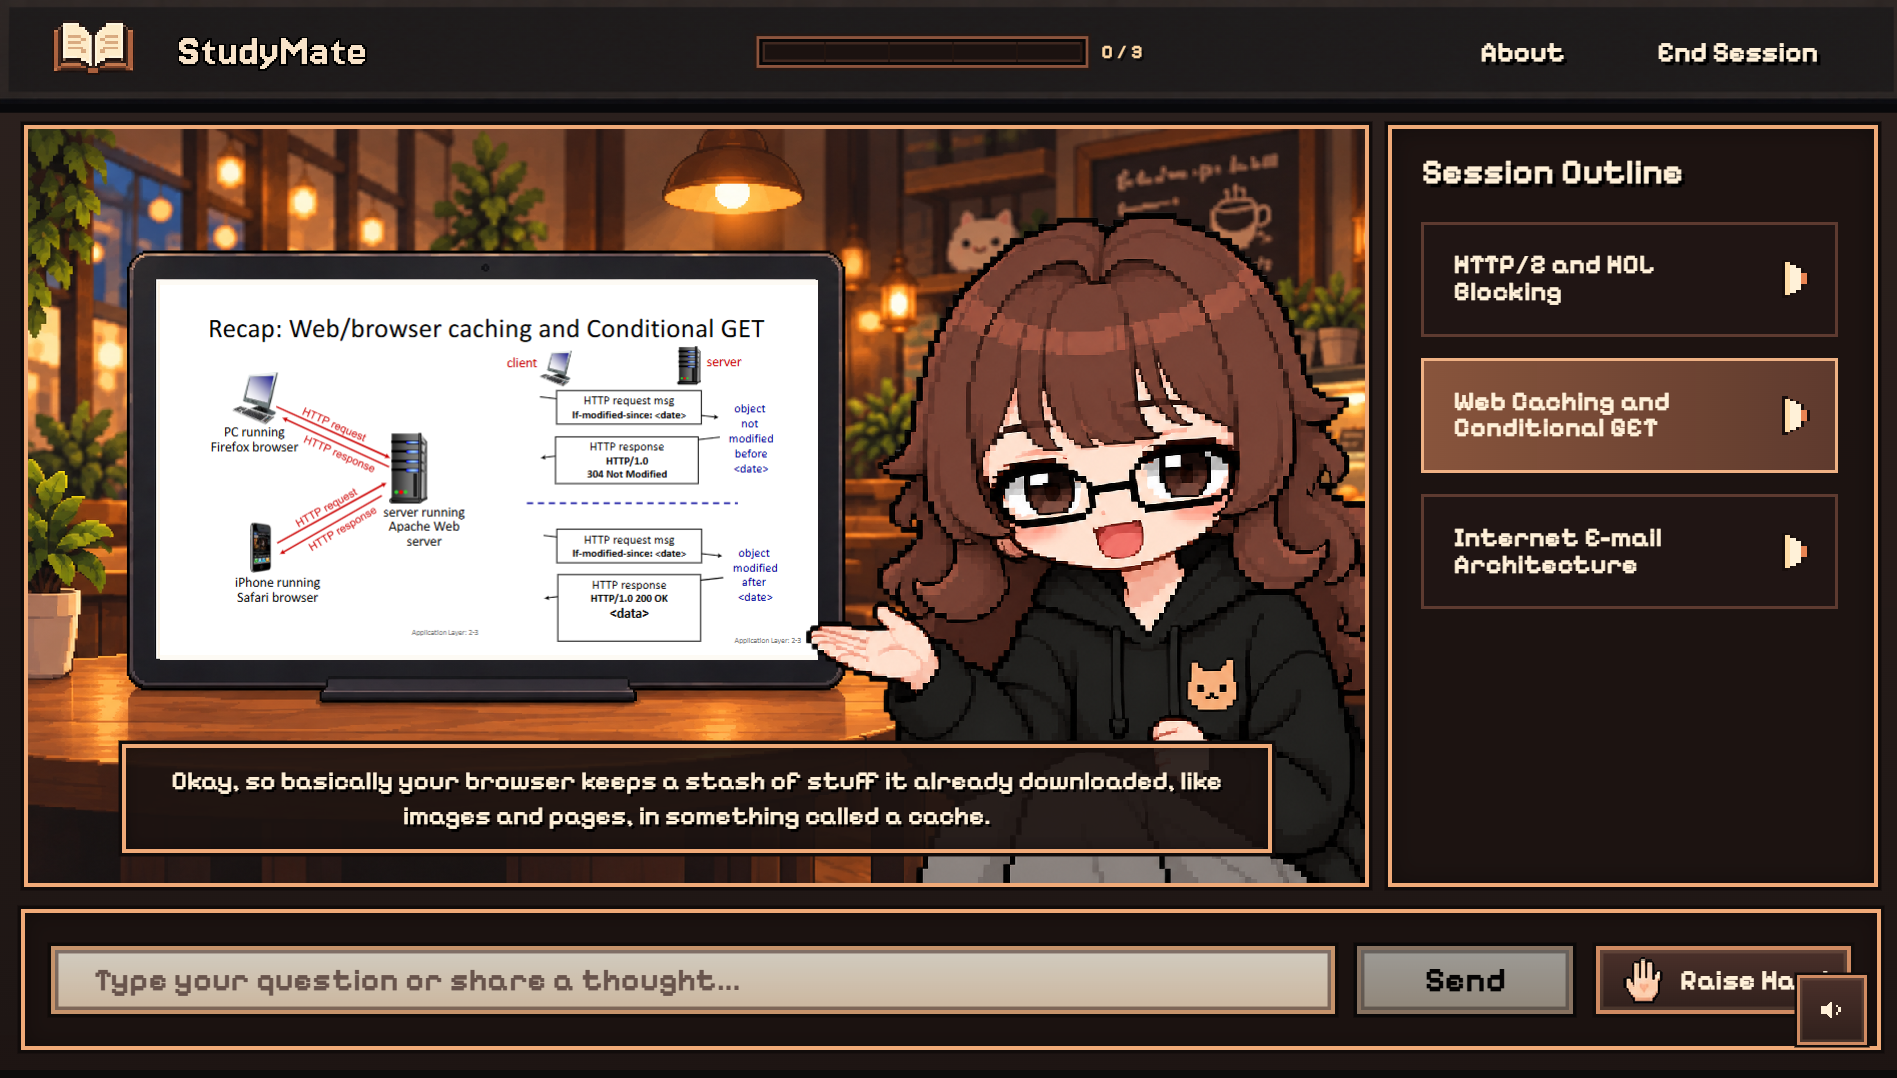
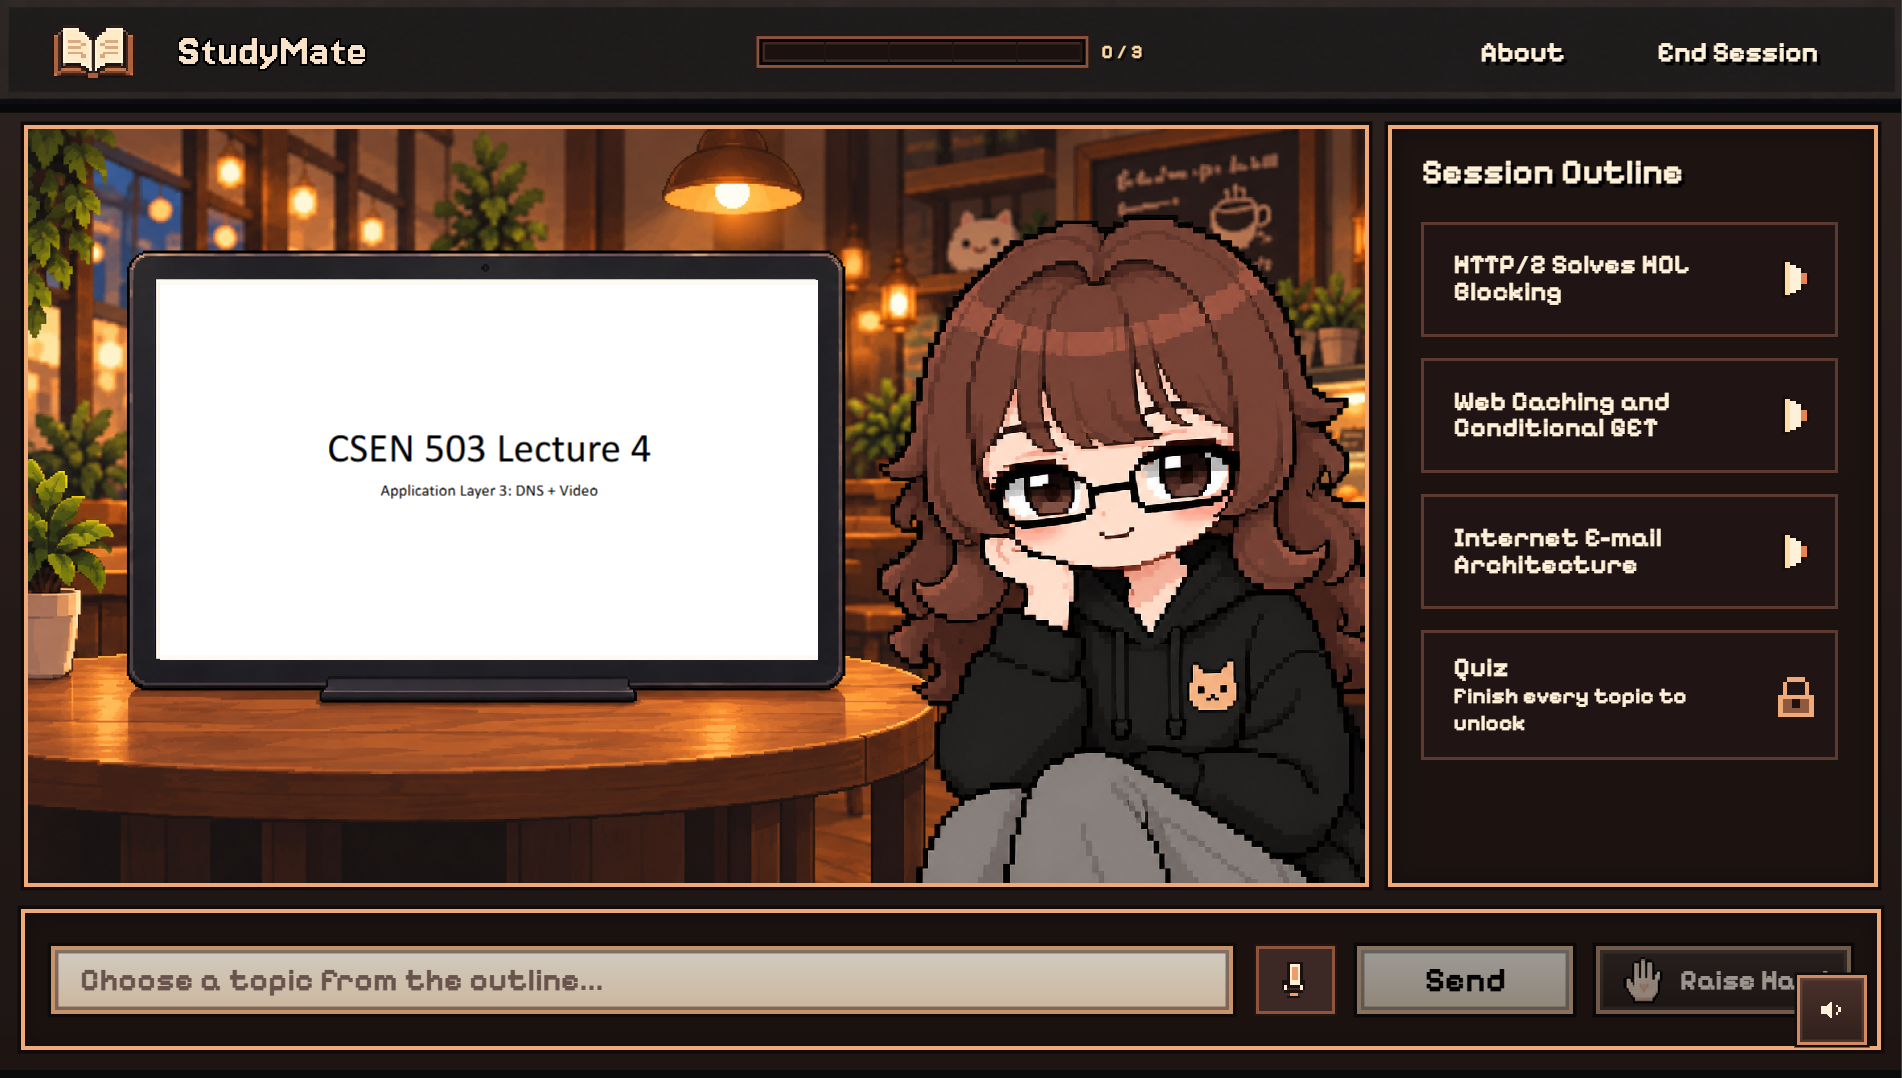
Update README.md to include voice input options and Groq Whisper integration; add new screenshots for Cafe and Lecture Hall pages.

diff --git a/README.md b/README.md
@@ -13,7 +13,7 @@ Lecture slides often contain diagrams, formulas, and brief bullet points that ma
 1. **Upload a PDF.** StudyMate reads slide text and interprets meaningful diagrams and visual content.
 2. **Follow a lesson plan.** AI reorganizes the lecture into a logical, slide-grounded topic outline.
 3. **Choose your teacher.** Study in a **Lecture Hall**, with a **Private Tutor**, or at a **Study Café**, three expressive on-screen characters with different teaching styles.
-4. **Learn actively.** Hear explanations with synchronized slides and subtitles. Answer conceptual questions, receive feedback and hints, and retry when needed.
+4. **Learn actively.** Hear explanations with synchronized slides and subtitles. Answer conceptual questions by typing or recording your voice, receive feedback and hints, and retry when needed.
 5. **Stay in control.** Raise your hand to interrupt, ask a question, and resume where you left off; replay topics with fresh explanations.
 6. **Practice what matters.** A final adaptive quiz revisits weak concepts identified from your answers during the session.
 
@@ -50,7 +50,9 @@ Lecture slides often contain diagrams, formulas, and brief bullet points that ma
 
 ## How It Works
 
-StudyMate uses **PyMuPDF** and **Featherless AI** to interpret slide text and visuals, then generates a slide-grounded lesson plan. **LangGraph** orchestrates the session: teaching, questioning, evaluating answers, handling interruptions, and tracking weak areas. **React**, **PDF.js**, and **Fish Audio** bring that workflow into an interactive classroom.
+StudyMate uses **PyMuPDF** and **Featherless AI** to interpret slide text and visuals, then generates a slide-grounded lesson plan. **LangGraph** orchestrates the session: teaching, questioning, evaluating answers, handling interruptions, and tracking weak areas. **React**, **PDF.js**, **Fish Audio**, and **Groq Whisper** bring that workflow into an interactive classroom.
+
+Students can also record an answer or question. **Groq Whisper** transcribes it with lecture context, then places the editable transcript in the normal text field before the student sends it. If voice input is unavailable, typing remains available.
 
 ### Agent Workflow
 
@@ -62,11 +64,11 @@ StudyMate uses **PyMuPDF** and **Featherless AI** to interpret slide text and vi
 
 **The AI is more than a wrapper:** Featherless AI processes visual slides and generates teaching content; Pydantic checks structured outputs; and LangGraph maintains the state of each lesson—topic, slide, spoken segment, questions, progress, and weak areas—so student interruptions don't derail the experience.
 
-**Tech stack:** React, JavaScript, HTML, CSS, Vite, PDF.js · Python, FastAPI, LangGraph, Pydantic, PyMuPDF, HTTPX · Featherless AI · Fish Audio.
+**Tech stack:** React, JavaScript, HTML, CSS, Vite, PDF.js · Python, FastAPI, LangGraph, Pydantic, PyMuPDF, HTTPX · Featherless AI · Fish Audio · Groq Whisper.
 
 ## Run Locally
 
-**Requirements:** Python, Node.js/npm, a Featherless AI API key, and a Fish Audio API key.
+**Requirements:** Python, Node.js/npm, a Featherless AI API key, and a Fish Audio API key. A Groq API key is optional but required for voice answers.
 
 ### 1. Clone
 
@@ -93,11 +95,12 @@ Then:
 pip install -r requirements.txt
 ```
 
-Create `backend/.env` with **only these two required keys**:
+Create `backend/.env` with the required teaching and speech keys, plus the optional voice-transcription key:
 
 ```env
 FEATHERLESS_API_KEY=your_featherless_api_key
 FISH_AUDIO_API_KEY=your_fish_audio_api_key
+GROQ_STT_API_KEY=your_groq_api_key
 ```
 
 Start the backend (from `backend/`):
@@ -120,7 +123,7 @@ Open the local URL Vite prints (usually `http://localhost:5173`). The frontend c
 
 ### API Availability
 
-The project requires working Featherless AI and Fish Audio keys. Fish Audio's current `s2.1-pro-free` model is advertised as free **through November 30, 2026**; after that, access or the integration may need updating. See [Fish Audio's announcement](https://beta.fish.audio/blog/s2-1-pro-free-api/).
+The project requires working Featherless AI and Fish Audio keys. Fish Audio's current `s2.1-pro-free` model is advertised as free **through November 30, 2026**; after that, access or the integration may need updating. See [Fish Audio's announcement](https://beta.fish.audio/blog/s2-1-pro-free-api/). Voice answers additionally use Groq Whisper when `GROQ_STT_API_KEY` is configured; the rest of the study session works normally without it.
 
 ## What's Next
 
